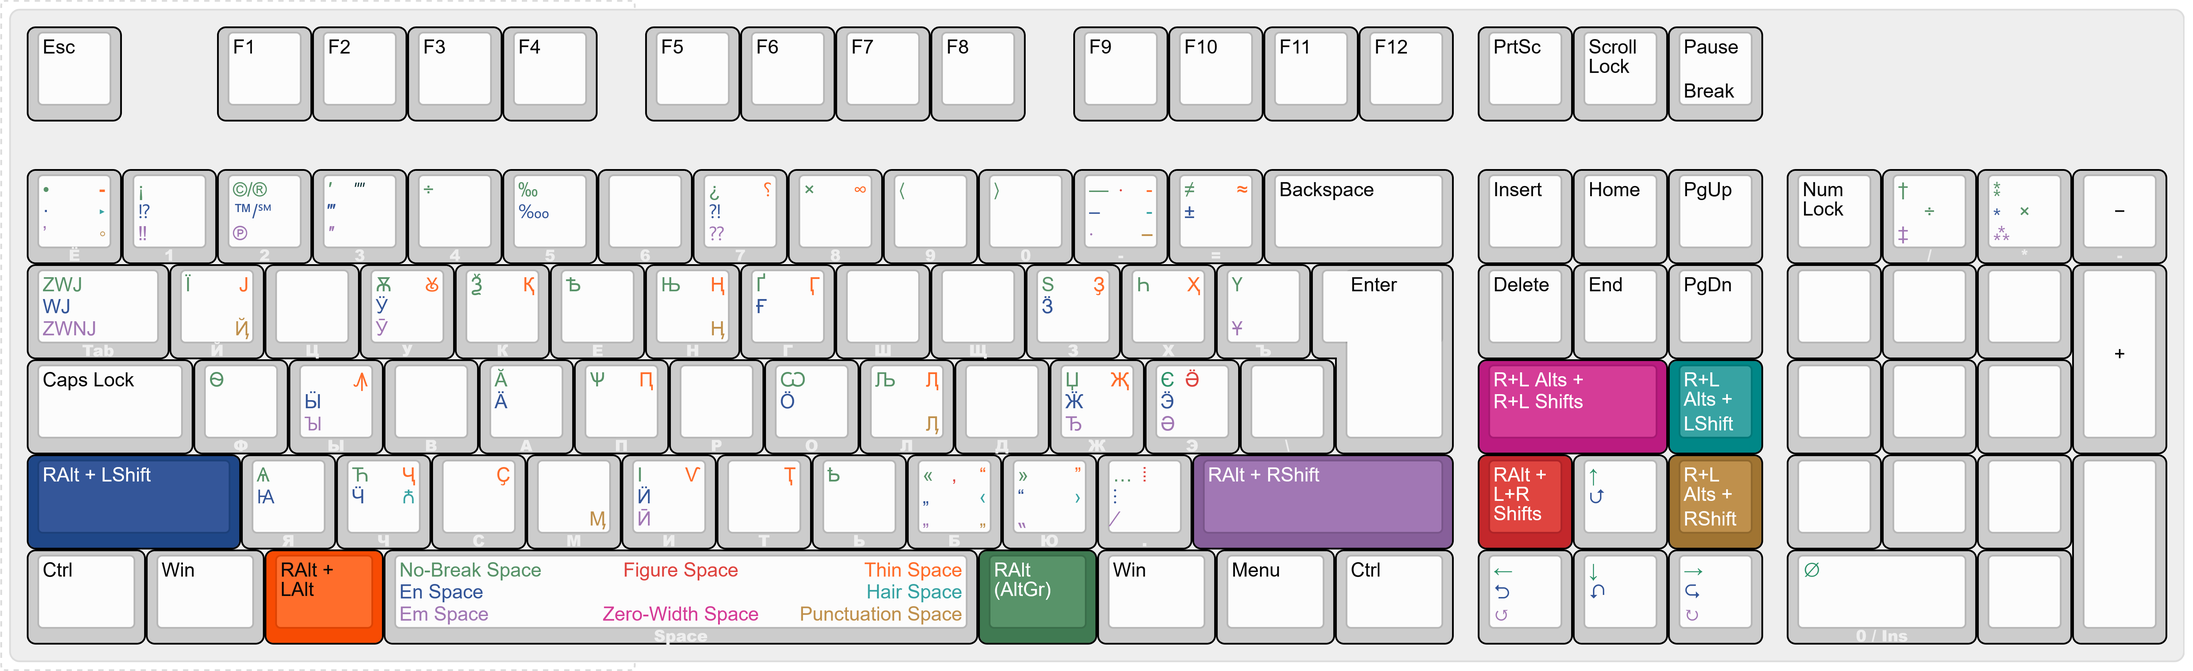
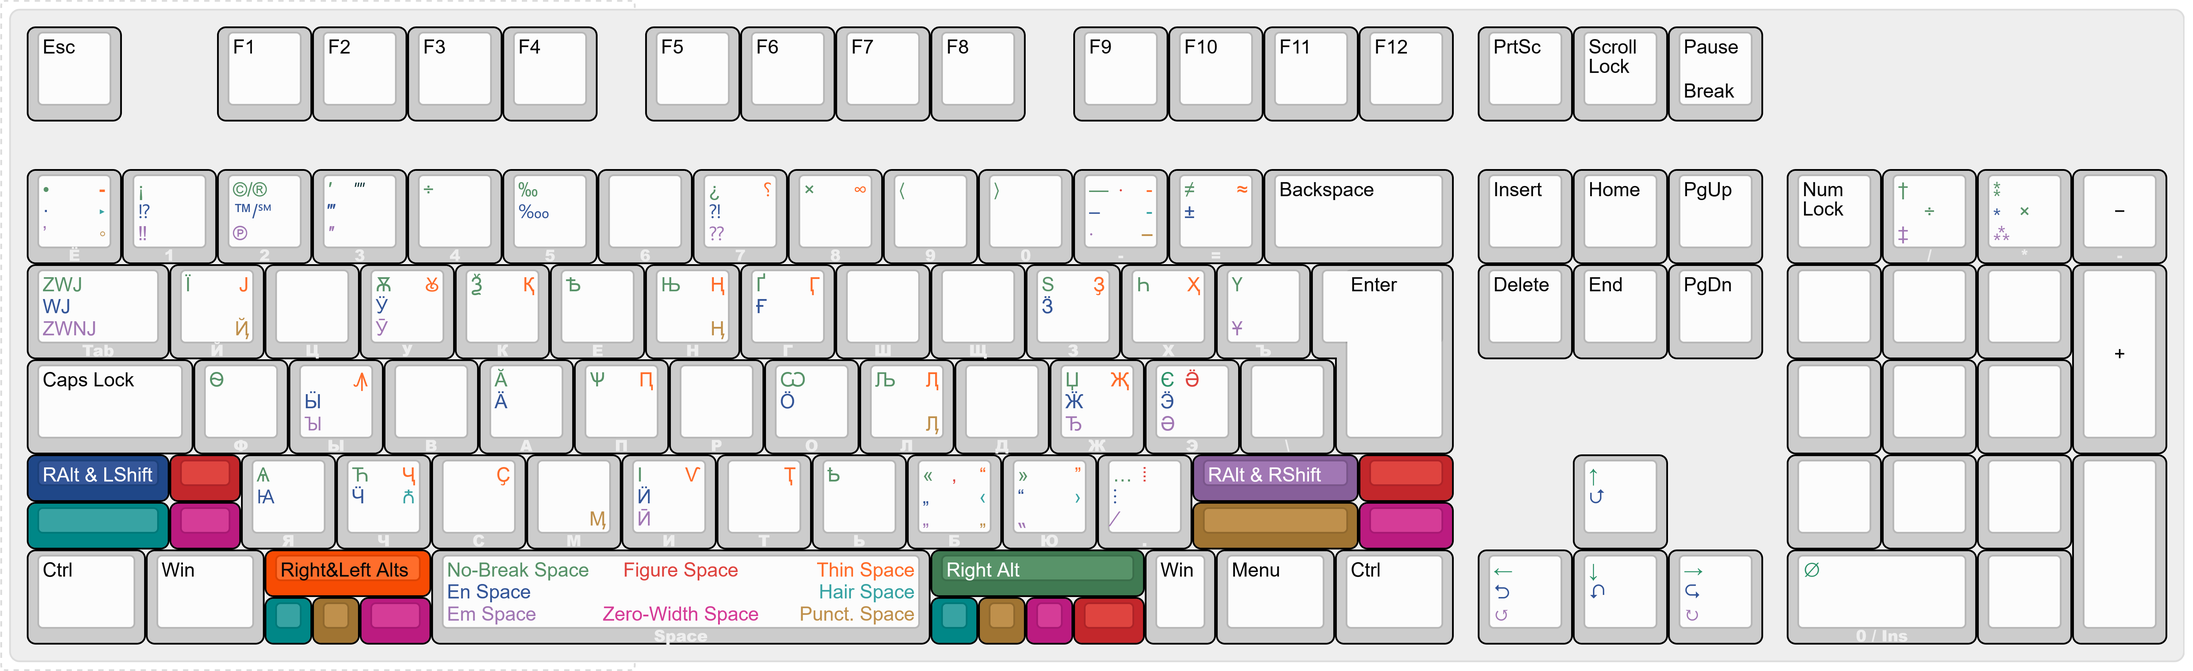
А

Changed region(s): [[0.374, 0.5265, 0.8104, 0.9601], [0.0935, 0.8052, 0.2805, 0.9601], [0.0, 0.6814, 0.1247, 0.8362]]

diff --git a/README.md b/README.md
@@ -394,7 +394,7 @@ _Оба режима не завершены_
 	<summary>Пермассылка</summary>
 
 ```
-https://www.keyboard-layout-editor.com/##@_css=* {%0A%20%20%20 font-size%2F: 11px%2F%3B%0A}%0A%0A.keylabel.keylabel10 > div {%0A%20%20%20 font-size%2F: 9px%2F%3B%0A%20%20%20 line-height%2F: 1em%2F%3B%0A%20%20%20 font-weight%2F: 800%2F%3B%0A%20%20%20 color%2F: %23eee%2F%3B%0A}%3B&@=Esc&_x:1%3B&=F1&=F2&=F3&=F4&_x:0.5%3B&=F5&=F6&=F7&=F8&_x:0.5%3B&=F9&=F10&=F11&=F12&_x:0.25%3B&=PrtSc&=Scroll Lock&=Pause%0ABreak%3B&@_y:0.5&t=%23407A52%0A%23875F9A%0A%23f74b03%0A%23a07432%0A%0A%0A%231F4788%0A%23008787%3B&=•%0A’%0A⁃%0A◦%0A~%0A%0A·%0A‣&_t=%23407A52%0A%23875F9A%0A%0A%0A%0A%0A%231F4788%3B&=¡%0A‼%0A%0A%0A1%0A%0A⁉&=©%2F%2F®%0A℗%0A%0A%0A2%0A%0A™%2F%2F℠&_t=%23407A52%0A%23875F9A%0A%0A%0A%0A%0A%231F4788%0A%0AC3272B%3B&=′%0A″%0A%0A%0A3%0A%0A‴%0A%0A⁗&_t=%23407A52%3B&=÷%0A%0A%0A%0A4&_t=%23407A52%0A%0A%0A%0A%0A%0A%231F4788%3B&=‰%0A%0A%0A%0A5%0A%0A‱&_t=%23000000&a:7%3B&=%0A%0A%0A%0A6&_t=%23407A52%0A%23875F9A%0A%23f74b03%0A%0A%0A%0A%231F4788&a:4%3B&=¿%0A⁇%0A⸮%0A%0A7%0A%0A⁈&_t=%23407A52%0A%0A%23f74b03%3B&=×%0A%0A∞%0A%0A8&_t=%23407A52%3B&=⟨%0A%0A%0A%0A9&=⟩%0A%0A%0A%0A0&_t=%23407A52%0A%23875F9A%0A%23f74b03%0A%23a07432%0A%0A%0A%231F4788%0A%23008787%0A%23C3272B%3B&=—%0A‧%0A‐%0A‒%0A-%0A%0A–%0A‑%0A‧&_t=%23407A52%0A%0A%23f74b03%0A%0A%0A%0A%231F4788%3B&=≠%0A%0A≈%0A%0A%2F=%0A%0A±&_t=%23000000&w:2%3B&=Backspace&_x:0.25%3B&=Insert&=Home&=PgUp&_x:0.25%3B&=Num Lock&_t=%23407A52%0A%23875F9A%3B&=†%0A‡%0A%0A%0A%2F%2F%0A%0A%0A%0A%0A÷&_t=%23407A52%0A%23875F9A%0A%0A%0A%0A%0A%231F4788%3B&=⁑%0A⁂%0A%0A%0A*%0A%0A⁎%0A%0A%0A×&_t=%23000000&a:7%3B&=−%0A%0A%0A%0A-%3B&@_t=%23407A52%0A%23875F9A%0A%0A%0A%0A%0A%231F4788&a:4&w:1.5%3B&=ZWJ%0AZWNJ%0A%0A%0ATab%0A%0AWJ&_t=%23000000%0A%23875F9A%0A%0A%0A%23ffffff%3B&=%0AɊ%0A%0A%0AQ&_t=%23407A52%0A%23875F9A%0A%23f74b03%0A%23a07432%0A%23ffffff%0A%0A%231F4788%0A%23008787%3B&=Ẇ%0AǷ%0AŴ%0AꟂ%0AW%0A%0AẄ%0AẈ&_t=%23407A52%0A%23875F9A%0A%23f74b03%0A%23a07432%0A%23ffffff%0A%0A%231F4788%0A%23008787%0A%23C3272B%3B&=Ə%0AĒ%0AÊ%0AĘ%0AE%0A%0AË%0AĚ%0AẼ&_t=%23407A52%0A%23875F9A%0A%23f74b03%0A%23a07432%0A%23ffffff%0A%0A%231F4788%0A%23008787%3B&=Ṙ%0AꝚ%0AṚ%0AŖ%0AR%0A%0AƦ%0AŘ&_t=%23407A52%0A%23875F9A%0A%23f74b03%0A%23a07432%0A%23ffffff%0A%0A%231F4788%0A%23008787%0A%23C3272B%3B&=Ț%0AÞ%0AṬ%0AŢ%0AT%0A%0AṪ%0AŤ%0A⹒&=Ẏ%0AȲ%0AŶ%0AỾ%0AY%0A%0AŸ%0AɎ%0AỸ&_t=%23407A52%0A%23875F9A%0A%23f74b03%0A%23a07432%0A%23ffffff%0A%0A%231F4788%0A%23008787%0A%23C3272B%0A%0A%23bb1b80%3B&=Ŭ%0AŪ%0AÛ%0AŲ%0AU%0A%0AÜ%0AŮ%0AŨ%0A%0AŰ&=Ĭ%0AĪ%0AÎ%0AĮ%0AI%0A%0AÏ%0AǏ%0AĨ%0A%0Aİı&=Ø%0AŌ%0AÔ%0AǪ%0AO%0A%0AÖ%0AǑ%0AÕ%0A%0AŐ&_t=%23407A52%0A%23875F9A%0A%23f74b03%0A%0A%23ffffff%0A%0A%231F4788%0A%23008787%3B&=Ṗ%0AƤ%0AꝔ%0A%0AP%0A%0AⱣ%0AꝒ&_t=%23000000%0A%0A%0A%0A%23ffffff&a:7%3B&=%0A%0A%0A%0A[&=%0A%0A%0A%0A]&_x:0.25&t=%23000000&a:4&w:1.25&h:2&w2:1.5&h2:1&x2:-0.25%3B&=Enter&_x:0.25%3B&=Delete&=End&=PgDn&_x:0.25&a:7%3B&=&=&=&_h:2%3B&=+%3B&@_a:4&w:1.75%3B&=Caps Lock&_t=%23407A52%0A%23875F9A%0A%23f74b03%0A%23a07432%0A%23ffffff%0A%0A%231F4788%0A%23008787%0A%23C3272B&f:4%3B&=Ă%0AĀ%0AÂ%0AĄ%0AA%0A%0AÄ%0AÅ%0AÃ&_f:3%3B&=Ș%0Aſ%0AŜ%0AŞ%0AS%0A%0Aẞ%0AŠ%0AƩ&_t=%23407A52%0A%0A%23f74b03%0A%23a07432%0A%23ffffff%0A%0A%0A%23008787%0A%23C3272B%3B&=ð%0A%0Ađ%0AḐ%0AD%0A%0A%0AĎ%0AḒ&_t=%23407A52%0A%0A%0A%0A%23ffffff%3B&=Ḟ%0A%0A%0A%0AF&_t=%23407A52%0A%23875F9A%0A%23f74b03%0A%23a07432%0A%23ffffff%0A%0A%231F4788%0A%23008787%0A%23C3272B%3B&=Ğ%0AḠ%0AĜ%0AĢ%0AG%0A%0AꝽ%0AǦ%0AƔ&_t=%23407A52%0A%0A%23f74b03%0A%23a07432%0A%23ffffff%0A%0A%231F4788%0A%23008787%3B&=Ħ%0A%0AĤ%0AḨ%0AH%0A%0AḦ%0AȞ&_t=%23407A52%0A%0A%23f74b03%0A%0A%23ffffff%0A%0A%0A%23008787%3B&=Ɉ%0A%0AĴ%0A%0AJ%0A%0A%0Aǰ&_t=%23000000%0A%0A%23f74b03%0A%23a07432%0A%23ffffff%0A%0A%0A%23008787%3B&=%0A%0AḲ%0AĶ%0AK%0A%0A%0AǨ&_t=%23407A52%0A%0A%0A%23a07432%0A%23ffffff%0A%0A%0A%23008787%0A%23C3272B%3B&=Ł%0A%0A%0AĻ%0AL%0A%0A%0AĽ%0AḼ&_t=%23000000%0A%0A%0A%0A%23ffffff&a:7%3B&=%0A%0A%0A%0A%2F%3B&=%0A%0A%0A%0A'&=%0A%0A%0A%0A\&_x:1.5&c=%23bb1b80&t=%23ffffff%0A%0A%0A%0A%0A%0A%23f0f0f0&a:4&w:2%3B&=R+L Alts +%0A%0A%0A%0A%0A%0AR+L Shifts&_c=%23008787&t=%23ffffff%3B&=R+L Alts%C2%A0+%0ALShift&_x:0.25&c=%23cccccc&t=%23000000&a:7%3B&=&=&=%3B&@_c=%231F4788&t=%23ffffff&a:4&w:2.25%3B&=RAlt + LShift&_c=%23cccccc&t=%23407A52%0A%23875F9A%0A%23f74b03%0A%0A%23ffffff%0A%0A%231F4788%0A%23008787%3B&=Ż%0AƷ%0AẐ%0A%0AZ%0A%0AƵ%0AŽ&_t=%23407A52%0A%0A%0A%0A%23ffffff%0A%0A%231F4788%3B&=Ẋ%0A%0A%0A%0AX%0A%0AẌ&_t=%23407A52%0A%0A%23f74b03%0A%23a07432%0A%23ffffff%0A%0A%0A%23008787%3B&=Ċ%0A%0AĈ%0AÇ%0AC%0A%0A%0AČ&_t=%23407A52%0A%23875F9A%0A%23f74b03%0A%0A%23ffffff%0A%0A%231F4788%0A%0A%23C3272B%3B&=Ꝟ%0AꝨ%0AṾ%0A%0AV%0A%0AỼ%0A%0AṼ&_t=%23407A52%0A%23875F9A%0A%23f74b03%0A%0A%23ffffff%0A%0A%231F4788%0A%23008787%3B&=Ḃ%0AƁ%0AḄ%0A%0AB%0A%0AɃ%0AꞖ&_t=%23407A52%0A%23875F9A%0A%23f74b03%0A%23a07432%0A%23ffffff%0A%0A%231F4788%0A%23008787%0A%23C3272B%3B&=Ñ%0AƝ%0AṆ%0AŅ%0AN%0A%0AꞐ%0AŇ%0AṄ&_t=%23407A52%0A%23875F9A%0A%23f74b03%0A%0A%23ffffff%3B&=Ṁ%0AⱮ%0AṂ%0A%0AM&_t=%23407A52%0A%23875F9A%0A%23f74b03%0A%23a07432%0A%23ffffff%0A%0A%231F4788%0A%23008787%0A%23C3272B%3B&=“%0A„%0A«%0A„%0A,%0A%0A‘%0A‹%0A‚&_t=%23407A52%0A%23875F9A%0A%23f74b03%0A%0A%23ffffff%0A%0A%231F4788%0A%23008787%3B&=”%0A⹂%0A»%0A%0A.%0A%0A’%0A›&_t=%23407A52%0A%23875F9A%0A%0A%0A%23ffffff%0A%0A%231F4788%0A%0A%23C3272B%3B&=…%0A⁄%0A%0A%0A%2F%2F%0A%0A⁝%0A%0A⁞&_c=%23875F9A&t=%23ffffff&w:2.75%3B&=RAlt + RShift&_x:0.25&c=%23C3272B%3B&=RAlt + L+R Shifts&_c=%23cccccc&t=407A52%0A%0A%0A%0A%0A%0A%231F4788%3B&=↑%0A%0A%0A%0A%0A%0A⮍&_c=%23a07432&t=%23ffffff%3B&=R+L Alts%C2%A0+%0ARShift&_x:0.25&c=%23cccccc&t=%23000000&a:7%3B&=&=&=&_h:2%3B&=%3B&@_a:4&w:1.25%3B&=Ctrl&_w:1.25%3B&=Win&_c=%23f74b03&w:1.25%3B&=RAlt + LAlt&_c=%23cccccc&t=%23407A52%0A%23875F9A%0A%23f74b03%0A%23a07432%0A%0A%0A%231F4788%0A%23008787%0A%23C3272B%0A%0A%23bb1b80&w:6.25%3B&=No-Break Space%0AEm Space%0AThin Space%0APunctuation Space%0ASpace%0A%0AEn Space%0AHair Space%0AFigure Space%0A%0AZero-Width Space&_c=%23407A52&t=%23f7f7f7&w:1.25%3B&=RAlt (AltGr)&_c=%23cccccc&t=%23000000&w:1.25%3B&=Win&_w:1.25%3B&=Menu&_w:1.25%3B&=Ctrl&_x:0.25&t=407A52%0A%23875F9A%0A%0A%0A%0A%0A%231F4788%3B&=←%0A↺%0A%0A%0A%0A%0A⮌&_t=407A52%0A%0A%0A%0A%0A%0A%231F4788%3B&=↓%0A%0A%0A%0A%0A%0A⮏&_t=407A52%0A%23875F9A%0A%0A%0A%0A%0A%231F4788%3B&=→%0A↻%0A%0A%0A%0A%0A⮎&_x:0.25&t=407A52&w:2%3B&=∅%0A%0A%0A%0A0 %2F%2F Ins&_t=%23000000&a:7%3B&=
+https://www.keyboard-layout-editor.com/##@_css=* {%0A%20%20%20 font-size%2F: 11px%2F%3B%0A}%0A%0A.keylabel.keylabel10 > div {%0A%20%20%20 font-size%2F: 9px%2F%3B%0A%20%20%20 line-height%2F: 1em%2F%3B%0A%20%20%20 font-weight%2F: 800%2F%3B%0A%20%20%20 color%2F: %23eee%2F%3B%0A}%3B&@=Esc&_x:1%3B&=F1&=F2&=F3&=F4&_x:0.5%3B&=F5&=F6&=F7&=F8&_x:0.5%3B&=F9&=F10&=F11&=F12&_x:0.25%3B&=PrtSc&=Scroll Lock&=Pause%0ABreak%3B&@_y:0.5&t=%23407A52%0A%23875F9A%0A%23f74b03%0A%23a07432%0A%0A%0A%231F4788%0A%23008787%3B&=•%0A’%0A⁃%0A◦%0A~%0A%0A·%0A‣&_t=%23407A52%0A%23875F9A%0A%0A%0A%0A%0A%231F4788%3B&=¡%0A‼%0A%0A%0A1%0A%0A⁉&=©%2F%2F®%0A℗%0A%0A%0A2%0A%0A™%2F%2F℠&_t=%23407A52%0A%23875F9A%0A%0A%0A%0A%0A%231F4788%0A%0AC3272B%3B&=′%0A″%0A%0A%0A3%0A%0A‴%0A%0A⁗&_t=%23407A52%3B&=÷%0A%0A%0A%0A4&_t=%23407A52%0A%0A%0A%0A%0A%0A%231F4788%3B&=‰%0A%0A%0A%0A5%0A%0A‱&_t=%23000000&a:7%3B&=%0A%0A%0A%0A6&_t=%23407A52%0A%23875F9A%0A%23f74b03%0A%0A%0A%0A%231F4788&a:4%3B&=¿%0A⁇%0A⸮%0A%0A7%0A%0A⁈&_t=%23407A52%0A%0A%23f74b03%3B&=×%0A%0A∞%0A%0A8&_t=%23407A52%3B&=⟨%0A%0A%0A%0A9&=⟩%0A%0A%0A%0A0&_t=%23407A52%0A%23875F9A%0A%23f74b03%0A%23a07432%0A%0A%0A%231F4788%0A%23008787%0A%23C3272B%3B&=—%0A‧%0A‐%0A‒%0A-%0A%0A–%0A‑%0A‧&_t=%23407A52%0A%0A%23f74b03%0A%0A%0A%0A%231F4788%3B&=≠%0A%0A≈%0A%0A%2F=%0A%0A±&_t=%23000000&w:2%3B&=Backspace&_x:0.25%3B&=Insert&=Home&=PgUp&_x:0.25%3B&=Num Lock&_t=%23407A52%0A%23875F9A%3B&=†%0A‡%0A%0A%0A%2F%2F%0A%0A%0A%0A%0A÷&_t=%23407A52%0A%23875F9A%0A%0A%0A%0A%0A%231F4788%3B&=⁑%0A⁂%0A%0A%0A*%0A%0A⁎%0A%0A%0A×&_t=%23000000&a:7%3B&=−%0A%0A%0A%0A-%3B&@_t=%23407A52%0A%23875F9A%0A%0A%0A%0A%0A%231F4788&a:4&w:1.5%3B&=ZWJ%0AZWNJ%0A%0A%0ATab%0A%0AWJ&_t=%23000000%0A%23875F9A%0A%0A%0A%23ffffff%3B&=%0AɊ%0A%0A%0AQ&_t=%23407A52%0A%23875F9A%0A%23f74b03%0A%23a07432%0A%23ffffff%0A%0A%231F4788%0A%23008787%3B&=Ẇ%0AǷ%0AŴ%0AꟂ%0AW%0A%0AẄ%0AẈ&_t=%23407A52%0A%23875F9A%0A%23f74b03%0A%23a07432%0A%23ffffff%0A%0A%231F4788%0A%23008787%0A%23C3272B%3B&=Ə%0AĒ%0AÊ%0AĘ%0AE%0A%0AË%0AĚ%0AẼ&_t=%23407A52%0A%23875F9A%0A%23f74b03%0A%23a07432%0A%23ffffff%0A%0A%231F4788%0A%23008787%3B&=Ṙ%0AꝚ%0AṚ%0AŖ%0AR%0A%0AƦ%0AŘ&_t=%23407A52%0A%23875F9A%0A%23f74b03%0A%23a07432%0A%23ffffff%0A%0A%231F4788%0A%23008787%0A%23C3272B%3B&=Ț%0AÞ%0AṬ%0AŢ%0AT%0A%0AṪ%0AŤ%0A⹒&=Ẏ%0AȲ%0AŶ%0AỾ%0AY%0A%0AŸ%0AɎ%0AỸ&_t=%23407A52%0A%23875F9A%0A%23f74b03%0A%23a07432%0A%23ffffff%0A%0A%231F4788%0A%23008787%0A%23C3272B%0A%0A%23bb1b80%3B&=Ŭ%0AŪ%0AÛ%0AŲ%0AU%0A%0AÜ%0AŮ%0AŨ%0A%0AŰ&=Ĭ%0AĪ%0AÎ%0AĮ%0AI%0A%0AÏ%0AǏ%0AĨ%0A%0Aİı&=Ø%0AŌ%0AÔ%0AǪ%0AO%0A%0AÖ%0AǑ%0AÕ%0A%0AŐ&_t=%23407A52%0A%23875F9A%0A%23f74b03%0A%0A%23ffffff%0A%0A%231F4788%0A%23008787%3B&=Ṗ%0AƤ%0AꝔ%0A%0AP%0A%0AⱣ%0AꝒ&_t=%23000000%0A%0A%0A%0A%23ffffff&a:7%3B&=%0A%0A%0A%0A[&=%0A%0A%0A%0A]&_x:0.25&t=%23000000&a:4&w:1.25&h:2&w2:1.5&h2:1&x2:-0.25%3B&=Enter&_x:0.25%3B&=Delete&=End&=PgDn&_x:0.25&a:7%3B&=&=&=&_h:2%3B&=+%3B&@_a:4&w:1.75%3B&=Caps Lock&_t=%23407A52%0A%23875F9A%0A%23f74b03%0A%23a07432%0A%23ffffff%0A%0A%231F4788%0A%23008787%0A%23C3272B&f:4%3B&=Ă%0AĀ%0AÂ%0AĄ%0AA%0A%0AÄ%0AÅ%0AÃ&_f:3%3B&=Ș%0Aſ%0AŜ%0AŞ%0AS%0A%0Aẞ%0AŠ%0AƩ&_t=%23407A52%0A%0A%23f74b03%0A%23a07432%0A%23ffffff%0A%0A%0A%23008787%0A%23C3272B%3B&=ð%0A%0Ađ%0AḐ%0AD%0A%0A%0AĎ%0AḒ&_t=%23407A52%0A%0A%0A%0A%23ffffff%3B&=Ḟ%0A%0A%0A%0AF&_t=%23407A52%0A%23875F9A%0A%23f74b03%0A%23a07432%0A%23ffffff%0A%0A%231F4788%0A%23008787%0A%23C3272B%3B&=Ğ%0AḠ%0AĜ%0AĢ%0AG%0A%0AꝽ%0AǦ%0AƔ&_t=%23407A52%0A%0A%23f74b03%0A%23a07432%0A%23ffffff%0A%0A%231F4788%0A%23008787%3B&=Ħ%0A%0AĤ%0AḨ%0AH%0A%0AḦ%0AȞ&_t=%23407A52%0A%0A%23f74b03%0A%0A%23ffffff%0A%0A%0A%23008787%3B&=Ɉ%0A%0AĴ%0A%0AJ%0A%0A%0Aǰ&_t=%23000000%0A%0A%23f74b03%0A%23a07432%0A%23ffffff%0A%0A%0A%23008787%3B&=%0A%0AḲ%0AĶ%0AK%0A%0A%0AǨ&_t=%23407A52%0A%0A%0A%23a07432%0A%23ffffff%0A%0A%0A%23008787%0A%23C3272B%3B&=Ł%0A%0A%0AĻ%0AL%0A%0A%0AĽ%0AḼ&_t=%23000000%0A%0A%0A%0A%23ffffff&a:7%3B&=%0A%0A%0A%0A%2F%3B&=%0A%0A%0A%0A'&=%0A%0A%0A%0A\&_x:4.75&t=%23000000%3B&=&=&=%3B&@_c=%231F4788&t=%23ffffff&a:4&w:1.5&h:0.5%3B&=RAlt %2F& LShift&_c=%23C3272B&a:7&w:0.75&h:0.5%3B&=&_c=%23cccccc&t=%23407A52%0A%23875F9A%0A%23f74b03%0A%0A%23ffffff%0A%0A%231F4788%0A%23008787&a:4%3B&=Ż%0AƷ%0AẐ%0A%0AZ%0A%0AƵ%0AŽ&_t=%23407A52%0A%0A%0A%0A%23ffffff%0A%0A%231F4788%3B&=Ẋ%0A%0A%0A%0AX%0A%0AẌ&_t=%23407A52%0A%0A%23f74b03%0A%23a07432%0A%23ffffff%0A%0A%0A%23008787%3B&=Ċ%0A%0AĈ%0AÇ%0AC%0A%0A%0AČ&_t=%23407A52%0A%23875F9A%0A%23f74b03%0A%0A%23ffffff%0A%0A%231F4788%0A%0A%23C3272B%3B&=Ꝟ%0AꝨ%0AṾ%0A%0AV%0A%0AỼ%0A%0AṼ&_t=%23407A52%0A%23875F9A%0A%23f74b03%0A%0A%23ffffff%0A%0A%231F4788%0A%23008787%3B&=Ḃ%0AƁ%0AḄ%0A%0AB%0A%0AɃ%0AꞖ&_t=%23407A52%0A%23875F9A%0A%23f74b03%0A%23a07432%0A%23ffffff%0A%0A%231F4788%0A%23008787%0A%23C3272B%3B&=Ñ%0AƝ%0AṆ%0AŅ%0AN%0A%0AꞐ%0AŇ%0AṄ&_t=%23407A52%0A%23875F9A%0A%23f74b03%0A%0A%23ffffff%3B&=Ṁ%0AⱮ%0AṂ%0A%0AM&_t=%23407A52%0A%23875F9A%0A%23f74b03%0A%23a07432%0A%23ffffff%0A%0A%231F4788%0A%23008787%0A%23C3272B%3B&=“%0A„%0A«%0A„%0A,%0A%0A‘%0A‹%0A‚&_t=%23407A52%0A%23875F9A%0A%23f74b03%0A%0A%23ffffff%0A%0A%231F4788%0A%23008787%3B&=”%0A⹂%0A»%0A%0A.%0A%0A’%0A›&_t=%23407A52%0A%23875F9A%0A%0A%0A%23ffffff%0A%0A%231F4788%0A%0A%23C3272B%3B&=…%0A⁄%0A%0A%0A%2F%2F%0A%0A⁝%0A%0A⁞&_c=%23875F9A&t=%23ffffff&w:1.75&h:0.5%3B&=RAlt %2F& RShift&_c=%23C3272B&a:7&h:0.5%3B&=&_x:1.25&c=%23cccccc&t=407A52%0A%0A%0A%0A%0A%0A%231F4788&a:4%3B&=↑%0A%0A%0A%0A%0A%0A⮍&_x:1.25&t=%23000000&a:7%3B&=&=&=&_h:2%3B&=%3B&@_y:-0.5&c=%23008787&t=%23ffffff&w:1.5&h:0.5%3B&=&_c=%23bb1b80&w:0.75&h:0.5%3B&=&_x:10&c=%23a07432&w:1.75&h:0.5%3B&=&_c=%23bb1b80&h:0.5%3B&=%3B&@_y:-0.5&c=%23cccccc&t=%23000000&a:4&w:1.25%3B&=Ctrl&_w:1.25%3B&=Win&_c=%23f74b03&w:1.75&h:0.5%3B&=Right%2F&Left Alts&_c=%23cccccc&t=%23407A52%0A%23875F9A%0A%23f74b03%0A%23a07432%0A%0A%0A%231F4788%0A%23008787%0A%23C3272B%0A%0A%23bb1b80&w:5.25%3B&=No-Break Space%0AEm Space%0AThin Space%0APunct. Space%0ASpace%0A%0AEn Space%0AHair Space%0AFigure Space%0A%0AZero-Width Space&_c=%23407A52&t=%23f7f7f7&w:2.25&h:0.5%3B&=Right Alt&_c=%23cccccc&t=%23000000&w:0.75%3B&=Win&_w:1.25%3B&=Menu&_w:1.25%3B&=Ctrl&_x:0.25&t=407A52%0A%23875F9A%0A%0A%0A%0A%0A%231F4788%3B&=←%0A↺%0A%0A%0A%0A%0A⮌&_t=407A52%0A%0A%0A%0A%0A%0A%231F4788%3B&=↓%0A%0A%0A%0A%0A%0A⮏&_t=407A52%0A%23875F9A%0A%0A%0A%0A%0A%231F4788%3B&=→%0A↻%0A%0A%0A%0A%0A⮎&_x:0.25&t=407A52&w:2%3B&=∅%0A%0A%0A%0A0 %2F%2F Ins&_t=%23000000&a:7%3B&=%3B&@_y:-0.5&x:2.5&c=%23008787&t=%23ffffff&w:0.5&h:0.5%3B&=&_c=%23a07432&w:0.5&h:0.5%3B&=&_c=%23bb1b80&w:0.75&h:0.5%3B&=&_x:5.25&c=%23008787&w:0.5&h:0.5%3B&=&_c=%23a07432&w:0.5&h:0.5%3B&=&_c=%23bb1b80&w:0.5&h:0.5%3B&=&_c=%23C3272B&w:0.75&h:0.5%3B&=
 ```
 
 </details>
@@ -412,7 +412,7 @@ https://www.keyboard-layout-editor.com/##@_css=* {%0A%20%20%20 font-size%2F: 11p
 	<summary>Пермассылка</summary>
 
 ```
-https://www.keyboard-layout-editor.com/##@_css=* {%0A%20%20%20 font-size%2F: 11px%2F%3B%0A}%0A%0A.keylabel.keylabel10 > div {%0A%20%20%20 font-size%2F: 9px%2F%3B%0A%20%20%20 line-height%2F: 1em%2F%3B%0A%20%20%20 font-weight%2F: 800%2F%3B%0A%20%20%20 color%2F: %23eee%2F%3B%0A}%3B&@=Esc&_x:1%3B&=F1&=F2&=F3&=F4&_x:0.5%3B&=F5&=F6&=F7&=F8&_x:0.5%3B&=F9&=F10&=F11&=F12&_x:0.25%3B&=PrtSc&=Scroll Lock&=Pause%0ABreak%3B&@_y:0.5&t=%23407A52%0A%23875F9A%0A%23f74b03%0A%23a07432%0A%0A%0A%231F4788%0A%23008787%3B&=•%0A’%0A⁃%0A◦%0AЁ%0A%0A·%0A‣&_t=%23407A52%0A%23875F9A%0A%0A%0A%0A%0A%231F4788%3B&=¡%0A‼%0A%0A%0A1%0A%0A⁉&=©%2F%2F®%0A℗%0A%0A%0A2%0A%0A™%2F%2F℠&_t=%23407A52%0A%23875F9A%0A%0A%0A%0A%0A%231F4788%0A%0AC3272B%3B&=′%0A″%0A%0A%0A3%0A%0A‴%0A%0A⁗&_t=%23407A52%3B&=÷%0A%0A%0A%0A4&_t=%23407A52%0A%0A%0A%0A%0A%0A%231F4788%3B&=‰%0A%0A%0A%0A5%0A%0A‱&_t=%23000000&a:7%3B&=%0A%0A%0A%0A6&_t=%23407A52%0A%23875F9A%0A%23f74b03%0A%0A%0A%0A%231F4788&a:4%3B&=¿%0A⁇%0A⸮%0A%0A7%0A%0A⁈&_t=%23407A52%0A%0A%23f74b03%3B&=×%0A%0A∞%0A%0A8&_t=%23407A52%3B&=⟨%0A%0A%0A%0A9&=⟩%0A%0A%0A%0A0&_t=%23407A52%0A%23875F9A%0A%23f74b03%0A%23a07432%0A%0A%0A%231F4788%0A%23008787%0A%23C3272B%3B&=—%0A‧%0A‐%0A‒%0A-%0A%0A–%0A‑%0A‧&_t=%23407A52%0A%0A%23f74b03%0A%0A%0A%0A%231F4788%3B&=≠%0A%0A≈%0A%0A%2F=%0A%0A±&_t=%23000000&w:2%3B&=Backspace&_x:0.25%3B&=Insert&=Home&=PgUp&_x:0.25%3B&=Num Lock&_t=%23407A52%0A%23875F9A%3B&=†%0A‡%0A%0A%0A%2F%2F%0A%0A%0A%0A%0A÷&_t=%23407A52%0A%23875F9A%0A%0A%0A%0A%0A%231F4788%3B&=⁑%0A⁂%0A%0A%0A*%0A%0A⁎%0A%0A%0A×&_t=%23000000&a:7%3B&=−%0A%0A%0A%0A-%3B&@_t=%23407A52%0A%23875F9A%0A%0A%0A%0A%0A%231F4788&a:4&w:1.5%3B&=ZWJ%0AZWNJ%0A%0A%0ATab%0A%0AWJ&_t=%23407A52%0A%0A%23f74b03%0A%23a07432%3B&=Ї%0A%0AЈ%0AҊ%0AЙ&_t=%23000000&a:7%3B&=%0A%0A%0A%0AЦ&_t=%23407A52%0A%23875F9A%0A%23f74b03%0A%0A%0A%0A%231F4788&a:4%3B&=Ѫ%0AӮ%0AꙊ%0A%0AУ%0A%0AӰ&_t=%23407A52%0A%0A%23f74b03%3B&=Ѯ%0A%0AҚ%0A%0AК&_t=%23407A52%3B&=Ѣ%0A%0A%0A%0AЕ&_t=%23407A52%0A%0A%23f74b03%0A%23a07432%3B&=Њ%0A%0AҢ%0AӉ%0AН&_t=%23407A52%0A%0A%23f74b03%0A%0A%0A%0A%231F4788%3B&=Ґ%0A%0AӶ%0A%0AГ%0A%0AҒ&_t=%23000000&a:7%3B&=%0A%0A%0A%0AШ&=%0A%0A%0A%0AЩ&_t=%23407A52%0A%0A%23f74b03%0A%0A%0A%0A%231F4788&a:4%3B&=Ѕ%0A%0AҘ%0A%0AЗ%0A%0AӞ&_t=%23407A52%0A%0A%23f74b03%3B&=Һ%0A%0AҲ%0A%0AХ&_t=%23407A52%0A%23875F9A%3B&=Ү%0AҰ%0A%0A%0AЪ&_x:0.25&t=%23000000&w:1.25&h:2&w2:1.5&h2:1&x2:-0.25%3B&=Enter&_x:0.25%3B&=Delete&=End&=PgDn&_x:0.25&a:7%3B&=&=&=&_h:2%3B&=+%3B&@_a:4&w:1.75%3B&=Caps Lock&_t=%23407A52%3B&=Ѳ%0A%0A%0A%0AФ&_t=%23407A52%0A%23875F9A%0A%23f74b03%0A%0A%0A%0A%231F4788%3B&=%0AꙐ%0AꙞ%0A%0AЫ%0A%0AӸ&_t=%23000000&a:7%3B&=%0A%0A%0A%0AВ&_t=%23407A52%0A%0A%0A%0A%0A%0A%231F4788&a:4%3B&=Ӑ%0A%0A%0A%0AА%0A%0AӒ&_t=%23407A52%0A%0A%23f74b03%3B&=Ѱ%0A%0AԤ%0A%0AП&_t=%23000000&a:7%3B&=%0A%0A%0A%0AР&_t=%23407A52%0A%0A%0A%0A%0A%0A%231F4788&a:4%3B&=Ѡ%0A%0A%0A%0AО%0A%0AӦ&_t=%23407A52%0A%0A%23f74b03%0A%23a07432%3B&=Љ%0A%0AԮ%0AӅ%0AЛ&_t=%23000000&a:7%3B&=%0A%0A%0A%0AД&_t=%23407A52%0A%23875F9A%0A%23f74b03%0A%0A%0A%0A%231F4788&a:4%3B&=Џ%0AЂ%0AҖ%0A%0AЖ%0A%0AӜ&_t=407A52%0A%23875F9A%0A%0A%0A%0A%0A%231F4788%0A%0A%23C3272B%3B&=Є%0AӘ%0A%0A%0AЭ%0A%0AӬ%0A%0AӚ&_t=%23000000&a:7%3B&=%0A%0A%0A%0A\&_x:1.5&c=%23bb1b80&t=%23ffffff%0A%0A%0A%0A%0A%0A%23f0f0f0&a:4&w:2%3B&=R+L Alts +%0A%0A%0A%0A%0A%0AR+L Shifts&_c=%23008787&t=%23ffffff%3B&=R+L Alts%C2%A0+%0ALShift&_x:0.25&c=%23cccccc&t=%23000000&a:7%3B&=&=&=%3B&@_c=%231F4788&t=%23ffffff&a:4&w:2.25%3B&=RAlt + LShift&_c=%23cccccc&t=%23407A52%0A%0A%0A%0A%0A%0A%231F4788%3B&=Ѧ%0A%0A%0A%0AЯ%0A%0AꙖ&_t=%23407A52%0A%0A%23f74b03%0A%0A%0A%0A%231F4788%0A%23008787%3B&=Ћ%0A%0AҶ%0A%0AЧ%0A%0AӴ%0AꙈ&_t=%23407A52%0A%0A%23f74b03%3B&=%0A%0AҪ%0A%0AС&_t=%23407A52%0A%0A%0A%23a07432%3B&=%0A%0A%0AӍ%0AМ&_t=%23407A52%0A%23875F9A%0A%23f74b03%0A%0A%0A%0A%231F4788%3B&=І%0AӢ%0AѴ%0A%0AИ%0A%0AӤ&_t=%23407A52%0A%0A%23f74b03%3B&=%0A%0AҬ%0A%0AТ&_t=%23407A52%3B&=Ҍ%0A%0A%0A%0AЬ&_t=%23407A52%0A%23875F9A%0A%23f74b03%0A%23a07432%0A%0A%0A%231F4788%0A%23008787%0A%23C3272B%3B&=«%0A„%0A“%0A„%0AБ%0A%0A„%0A‹%0A‚&_t=%23407A52%0A%23875F9A%0A%23f74b03%0A%0A%0A%0A%231F4788%0A%23008787%3B&=»%0A⹂%0A”%0A%0AЮ%0A%0A“%0A›&_t=%23407A52%0A%23875F9A%0A%0A%0A%0A%0A%231F4788%0A%0A%23C3272B%3B&=…%0A⁄%0A%0A%0A.%0A%0A⁝%0A%0A⁞&_c=%23875F9A&t=%23ffffff&w:2.75%3B&=RAlt + RShift&_x:0.25&c=%23C3272B%3B&=RAlt + L+R Shifts&_c=%23cccccc&t=407A52%0A%0A%0A%0A%0A%0A%231F4788%3B&=↑%0A%0A%0A%0A%0A%0A⮍&_c=%23a07432&t=%23ffffff%3B&=R+L Alts%C2%A0+%0ARShift&_x:0.25&c=%23cccccc&t=%23000000&a:7%3B&=&=&=&_h:2%3B&=%3B&@_a:4&w:1.25%3B&=Ctrl&_w:1.25%3B&=Win&_c=%23f74b03&w:1.25%3B&=RAlt + LAlt&_c=%23cccccc&t=%23407A52%0A%23875F9A%0A%23f74b03%0A%23a07432%0A%0A%0A%231F4788%0A%23008787%0A%23C3272B%0A%0A%23bb1b80&w:6.25%3B&=No-Break Space%0AEm Space%0AThin Space%0APunctuation Space%0ASpace%0A%0AEn Space%0AHair Space%0AFigure Space%0A%0AZero-Width Space&_c=%23407A52&t=%23f7f7f7&w:1.25%3B&=RAlt (AltGr)&_c=%23cccccc&t=%23000000&w:1.25%3B&=Win&_w:1.25%3B&=Menu&_w:1.25%3B&=Ctrl&_x:0.25&t=407A52%0A%23875F9A%0A%0A%0A%0A%0A%231F4788%3B&=←%0A↺%0A%0A%0A%0A%0A⮌&_t=407A52%0A%0A%0A%0A%0A%0A%231F4788%3B&=↓%0A%0A%0A%0A%0A%0A⮏&_t=407A52%0A%23875F9A%0A%0A%0A%0A%0A%231F4788%3B&=→%0A↻%0A%0A%0A%0A%0A⮎&_x:0.25&t=407A52&w:2%3B&=∅%0A%0A%0A%0A0 %2F%2F Ins&_t=%23000000&a:7%3B&=
+https://www.keyboard-layout-editor.com/##@_css=* {%0A%20%20%20 font-size%2F: 11px%2F%3B%0A}%0A%0A.keylabel.keylabel10 > div {%0A%20%20%20 font-size%2F: 9px%2F%3B%0A%20%20%20 line-height%2F: 1em%2F%3B%0A%20%20%20 font-weight%2F: 800%2F%3B%0A%20%20%20 color%2F: %23eee%2F%3B%0A}%3B&@=Esc&_x:1%3B&=F1&=F2&=F3&=F4&_x:0.5%3B&=F5&=F6&=F7&=F8&_x:0.5%3B&=F9&=F10&=F11&=F12&_x:0.25%3B&=PrtSc&=Scroll Lock&=Pause%0ABreak%3B&@_y:0.5&t=%23407A52%0A%23875F9A%0A%23f74b03%0A%23a07432%0A%0A%0A%231F4788%0A%23008787%3B&=•%0A’%0A⁃%0A◦%0AЁ%0A%0A·%0A‣&_t=%23407A52%0A%23875F9A%0A%0A%0A%0A%0A%231F4788%3B&=¡%0A‼%0A%0A%0A1%0A%0A⁉&=©%2F%2F®%0A℗%0A%0A%0A2%0A%0A™%2F%2F℠&_t=%23407A52%0A%23875F9A%0A%0A%0A%0A%0A%231F4788%0A%0AC3272B%3B&=′%0A″%0A%0A%0A3%0A%0A‴%0A%0A⁗&_t=%23407A52%3B&=÷%0A%0A%0A%0A4&_t=%23407A52%0A%0A%0A%0A%0A%0A%231F4788%3B&=‰%0A%0A%0A%0A5%0A%0A‱&_t=%23000000&a:7%3B&=%0A%0A%0A%0A6&_t=%23407A52%0A%23875F9A%0A%23f74b03%0A%0A%0A%0A%231F4788&a:4%3B&=¿%0A⁇%0A⸮%0A%0A7%0A%0A⁈&_t=%23407A52%0A%0A%23f74b03%3B&=×%0A%0A∞%0A%0A8&_t=%23407A52%3B&=⟨%0A%0A%0A%0A9&=⟩%0A%0A%0A%0A0&_t=%23407A52%0A%23875F9A%0A%23f74b03%0A%23a07432%0A%0A%0A%231F4788%0A%23008787%0A%23C3272B%3B&=—%0A‧%0A‐%0A‒%0A-%0A%0A–%0A‑%0A‧&_t=%23407A52%0A%0A%23f74b03%0A%0A%0A%0A%231F4788%3B&=≠%0A%0A≈%0A%0A%2F=%0A%0A±&_t=%23000000&w:2%3B&=Backspace&_x:0.25%3B&=Insert&=Home&=PgUp&_x:0.25%3B&=Num Lock&_t=%23407A52%0A%23875F9A%3B&=†%0A‡%0A%0A%0A%2F%2F%0A%0A%0A%0A%0A÷&_t=%23407A52%0A%23875F9A%0A%0A%0A%0A%0A%231F4788%3B&=⁑%0A⁂%0A%0A%0A*%0A%0A⁎%0A%0A%0A×&_t=%23000000&a:7%3B&=−%0A%0A%0A%0A-%3B&@_t=%23407A52%0A%23875F9A%0A%0A%0A%0A%0A%231F4788&a:4&w:1.5%3B&=ZWJ%0AZWNJ%0A%0A%0ATab%0A%0AWJ&_t=%23407A52%0A%0A%23f74b03%0A%23a07432%3B&=Ї%0A%0AЈ%0AҊ%0AЙ&_t=%23000000&a:7%3B&=%0A%0A%0A%0AЦ&_t=%23407A52%0A%23875F9A%0A%23f74b03%0A%0A%0A%0A%231F4788&a:4%3B&=Ѫ%0AӮ%0AꙊ%0A%0AУ%0A%0AӰ&_t=%23407A52%0A%0A%23f74b03%3B&=Ѯ%0A%0AҚ%0A%0AК&_t=%23407A52%3B&=Ѣ%0A%0A%0A%0AЕ&_t=%23407A52%0A%0A%23f74b03%0A%23a07432%3B&=Њ%0A%0AҢ%0AӉ%0AН&_t=%23407A52%0A%0A%23f74b03%0A%0A%0A%0A%231F4788%3B&=Ґ%0A%0AӶ%0A%0AГ%0A%0AҒ&_t=%23000000&a:7%3B&=%0A%0A%0A%0AШ&=%0A%0A%0A%0AЩ&_t=%23407A52%0A%0A%23f74b03%0A%0A%0A%0A%231F4788&a:4%3B&=Ѕ%0A%0AҘ%0A%0AЗ%0A%0AӞ&_t=%23407A52%0A%0A%23f74b03%3B&=Һ%0A%0AҲ%0A%0AХ&_t=%23407A52%0A%23875F9A%3B&=Ү%0AҰ%0A%0A%0AЪ&_x:0.25&t=%23000000&w:1.25&h:2&w2:1.5&h2:1&x2:-0.25%3B&=Enter&_x:0.25%3B&=Delete&=End&=PgDn&_x:0.25&a:7%3B&=&=&=&_h:2%3B&=+%3B&@_a:4&w:1.75%3B&=Caps Lock&_t=%23407A52%3B&=Ѳ%0A%0A%0A%0AФ&_t=%23407A52%0A%23875F9A%0A%23f74b03%0A%0A%0A%0A%231F4788%3B&=%0AꙐ%0AꙞ%0A%0AЫ%0A%0AӸ&_t=%23000000&a:7%3B&=%0A%0A%0A%0AВ&_t=%23407A52%0A%0A%0A%0A%0A%0A%231F4788&a:4%3B&=Ӑ%0A%0A%0A%0AА%0A%0AӒ&_t=%23407A52%0A%0A%23f74b03%3B&=Ѱ%0A%0AԤ%0A%0AП&_t=%23000000&a:7%3B&=%0A%0A%0A%0AР&_t=%23407A52%0A%0A%0A%0A%0A%0A%231F4788&a:4%3B&=Ѡ%0A%0A%0A%0AО%0A%0AӦ&_t=%23407A52%0A%0A%23f74b03%0A%23a07432%3B&=Љ%0A%0AԮ%0AӅ%0AЛ&_t=%23000000&a:7%3B&=%0A%0A%0A%0AД&_t=%23407A52%0A%23875F9A%0A%23f74b03%0A%0A%0A%0A%231F4788&a:4%3B&=Џ%0AЂ%0AҖ%0A%0AЖ%0A%0AӜ&_t=407A52%0A%23875F9A%0A%0A%0A%0A%0A%231F4788%0A%0A%23C3272B%3B&=Є%0AӘ%0A%0A%0AЭ%0A%0AӬ%0A%0AӚ&_t=%23000000&a:7%3B&=%0A%0A%0A%0A\&_x:4.75%3B&=&=&=%3B&@_c=%231F4788&t=%23ffffff&a:4&w:1.5&h:0.5%3B&=RAlt %2F& LShift&_c=%23C3272B&t=%23000000&a:7&w:0.75&h:0.5%3B&=&_c=%23cccccc&t=%23407A52%0A%0A%0A%0A%0A%0A%231F4788&a:4%3B&=Ѧ%0A%0A%0A%0AЯ%0A%0AꙖ&_t=%23407A52%0A%0A%23f74b03%0A%0A%0A%0A%231F4788%0A%23008787%3B&=Ћ%0A%0AҶ%0A%0AЧ%0A%0AӴ%0AꙈ&_t=%23407A52%0A%0A%23f74b03%3B&=%0A%0AҪ%0A%0AС&_t=%23407A52%0A%0A%0A%23a07432%3B&=%0A%0A%0AӍ%0AМ&_t=%23407A52%0A%23875F9A%0A%23f74b03%0A%0A%0A%0A%231F4788%3B&=І%0AӢ%0AѴ%0A%0AИ%0A%0AӤ&_t=%23407A52%0A%0A%23f74b03%3B&=%0A%0AҬ%0A%0AТ&_t=%23407A52%3B&=Ҍ%0A%0A%0A%0AЬ&_t=%23407A52%0A%23875F9A%0A%23f74b03%0A%23a07432%0A%0A%0A%231F4788%0A%23008787%0A%23C3272B%3B&=«%0A„%0A“%0A„%0AБ%0A%0A„%0A‹%0A‚&_t=%23407A52%0A%23875F9A%0A%23f74b03%0A%0A%0A%0A%231F4788%0A%23008787%3B&=»%0A⹂%0A”%0A%0AЮ%0A%0A“%0A›&_t=%23407A52%0A%23875F9A%0A%0A%0A%0A%0A%231F4788%0A%0A%23C3272B%3B&=…%0A⁄%0A%0A%0A.%0A%0A⁝%0A%0A⁞&_c=%23875F9A&t=%23ffffff&w:1.75&h:0.5%3B&=RAlt %2F& RShift&_c=%23C3272B&a:7&h:0.5%3B&=&_x:1.25&c=%23cccccc&t=407A52%0A%0A%0A%0A%0A%0A%231F4788&a:4%3B&=↑%0A%0A%0A%0A%0A%0A⮍&_x:1.25&t=%23000000&a:7%3B&=&=&=&_h:2%3B&=%3B&@_y:-0.5&c=%23008787&t=%23ffffff&w:1.5&h:0.5%3B&=&_c=%23bb1b80&t=%23000000&w:0.75&h:0.5%3B&=&_x:10&c=%23a07432&t=%23ffffff&w:1.75&h:0.5%3B&=&_c=%23bb1b80&h:0.5%3B&=%3B&@_y:-0.5&c=%23cccccc&t=%23000000&a:4&w:1.25%3B&=Ctrl&_w:1.25%3B&=Win&_c=%23f74b03&w:1.75&h:0.5%3B&=Right%2F&Left Alts&_c=%23cccccc&t=%23407A52%0A%23875F9A%0A%23f74b03%0A%23a07432%0A%0A%0A%231F4788%0A%23008787%0A%23C3272B%0A%0A%23bb1b80&w:5.25%3B&=No-Break Space%0AEm Space%0AThin Space%0APunct. Space%0ASpace%0A%0AEn Space%0AHair Space%0AFigure Space%0A%0AZero-Width Space&_c=%23407A52&t=%23f7f7f7&w:2.25&h:0.5%3B&=Right Alt&_c=%23cccccc&t=%23000000&w:0.75%3B&=Win&_w:1.25%3B&=Menu&_w:1.25%3B&=Ctrl&_x:0.25&t=407A52%0A%23875F9A%0A%0A%0A%0A%0A%231F4788%3B&=←%0A↺%0A%0A%0A%0A%0A⮌&_t=407A52%0A%0A%0A%0A%0A%0A%231F4788%3B&=↓%0A%0A%0A%0A%0A%0A⮏&_t=407A52%0A%23875F9A%0A%0A%0A%0A%0A%231F4788%3B&=→%0A↻%0A%0A%0A%0A%0A⮎&_x:0.25&t=407A52&w:2%3B&=∅%0A%0A%0A%0A0 %2F%2F Ins&_t=%23000000&a:7%3B&=%3B&@_y:-0.5&x:2.5&c=%23008787&w:0.5&h:0.5%3B&=&_c=%23a07432&w:0.5&h:0.5%3B&=&_c=%23bb1b80&w:0.75&h:0.5%3B&=&_x:5.25&c=%23008787&w:0.5&h:0.5%3B&=&_c=%23a07432&w:0.5&h:0.5%3B&=&_c=%23bb1b80&w:0.5&h:0.5%3B&=&_c=%23C3272B&w:0.75&h:0.5%3B&=
 ```
 
 </details>
